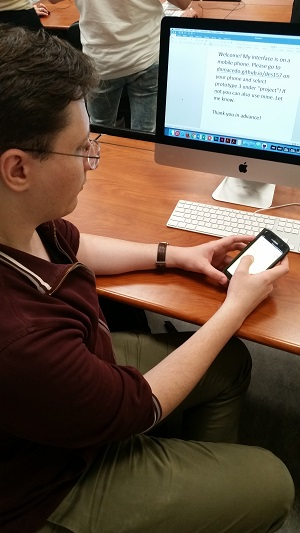
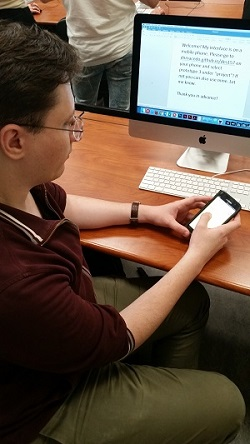
optomize image

diff --git a/project/process/audienceTestResults.html b/project/process/audienceTestResults.html
@@ -14,7 +14,7 @@
 
   <h1>Audience Test Results</h1>
 
-  <img src="audienceTestResults2.jpg" alt="a woman testing my website on a mobile phone" width="300">
+  <img src="audienceTestResults2.jpg" alt="a woman testing my website on a mobile phone" width="250">
 
   <h2>Julia</h2>
 
@@ -26,7 +26,7 @@
     hearing a few sentences describing a scene and the player would select the appropriate picture. I think this is where
     the graphics style could be applied more too.</p>
 
-  <img src="audienceTestResults.jpg" alt="a woman testing my website on a mobile phone" width="300">
+  <img src="audienceTestResults.jpg" alt="a woman testing my website on a mobile phone" width="250">
 
   <h2>Derek</h2>
 
